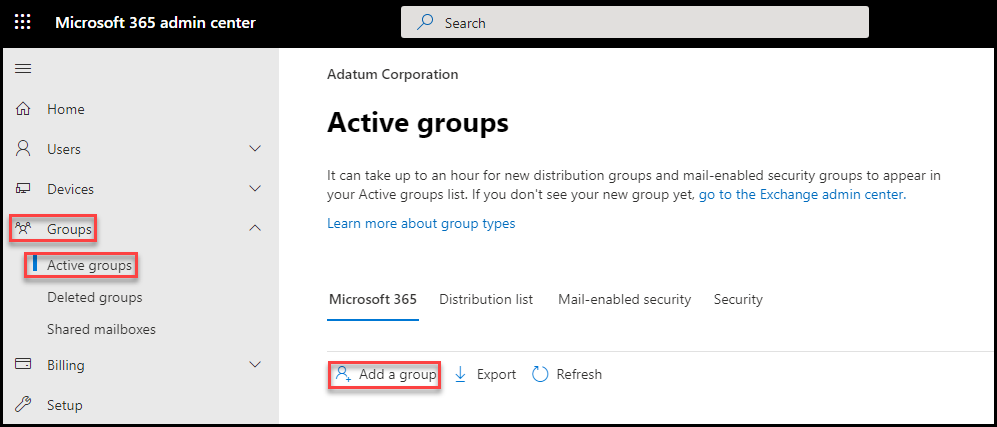
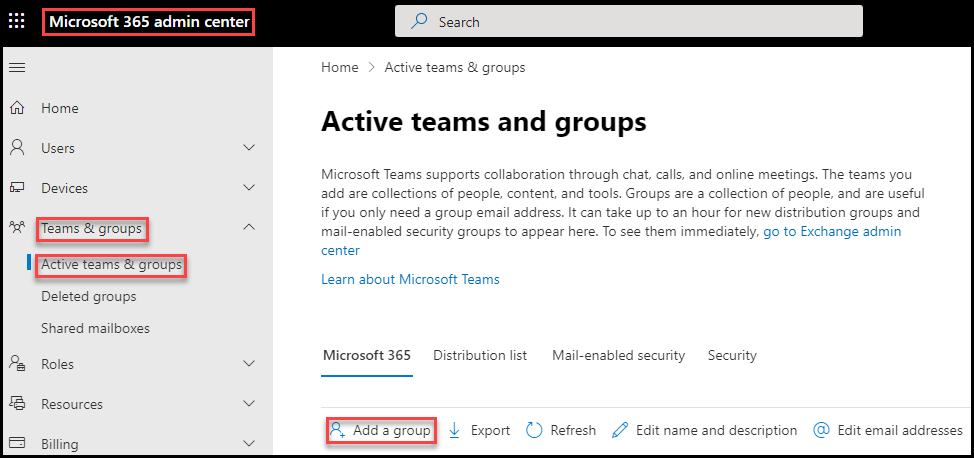
Update LAB_AK_04_Lab4_Ex3_Compliance

diff --git a/Instructions/Labs/LAB_AK_04_Lab4_Ex3_Compliance.md b/Instructions/Labs/LAB_AK_04_Lab4_Ex3_Compliance.md
@@ -12,9 +12,9 @@ To test archiving and retention in your Adatum pilot project, you will create a 
 
 	At this point, you probably have quite a few tabs open in your browser. If you wish, you can take this opportunity to close every tab except for the **Office 365 Home** tab and the **Microsoft 365 admin center** tab.
 
-3. In the **Microsoft 365 admin center**, in the left-hand navigation pane, select **Groups** and then select **Active groups** below it.
+3. In the **Microsoft 365 admin center**, in the left-hand navigation pane, select **Teams & groups** and then select **Active teams & groups** below it.
 
-4. On the **Active groups** window, select **Add a group** to create a new group for compliance testing. 
+4. On the **Active teams and groups** window, select **Add a group** to create a new group for compliance testing. 
 
 	![](images/comp1.png)
 
